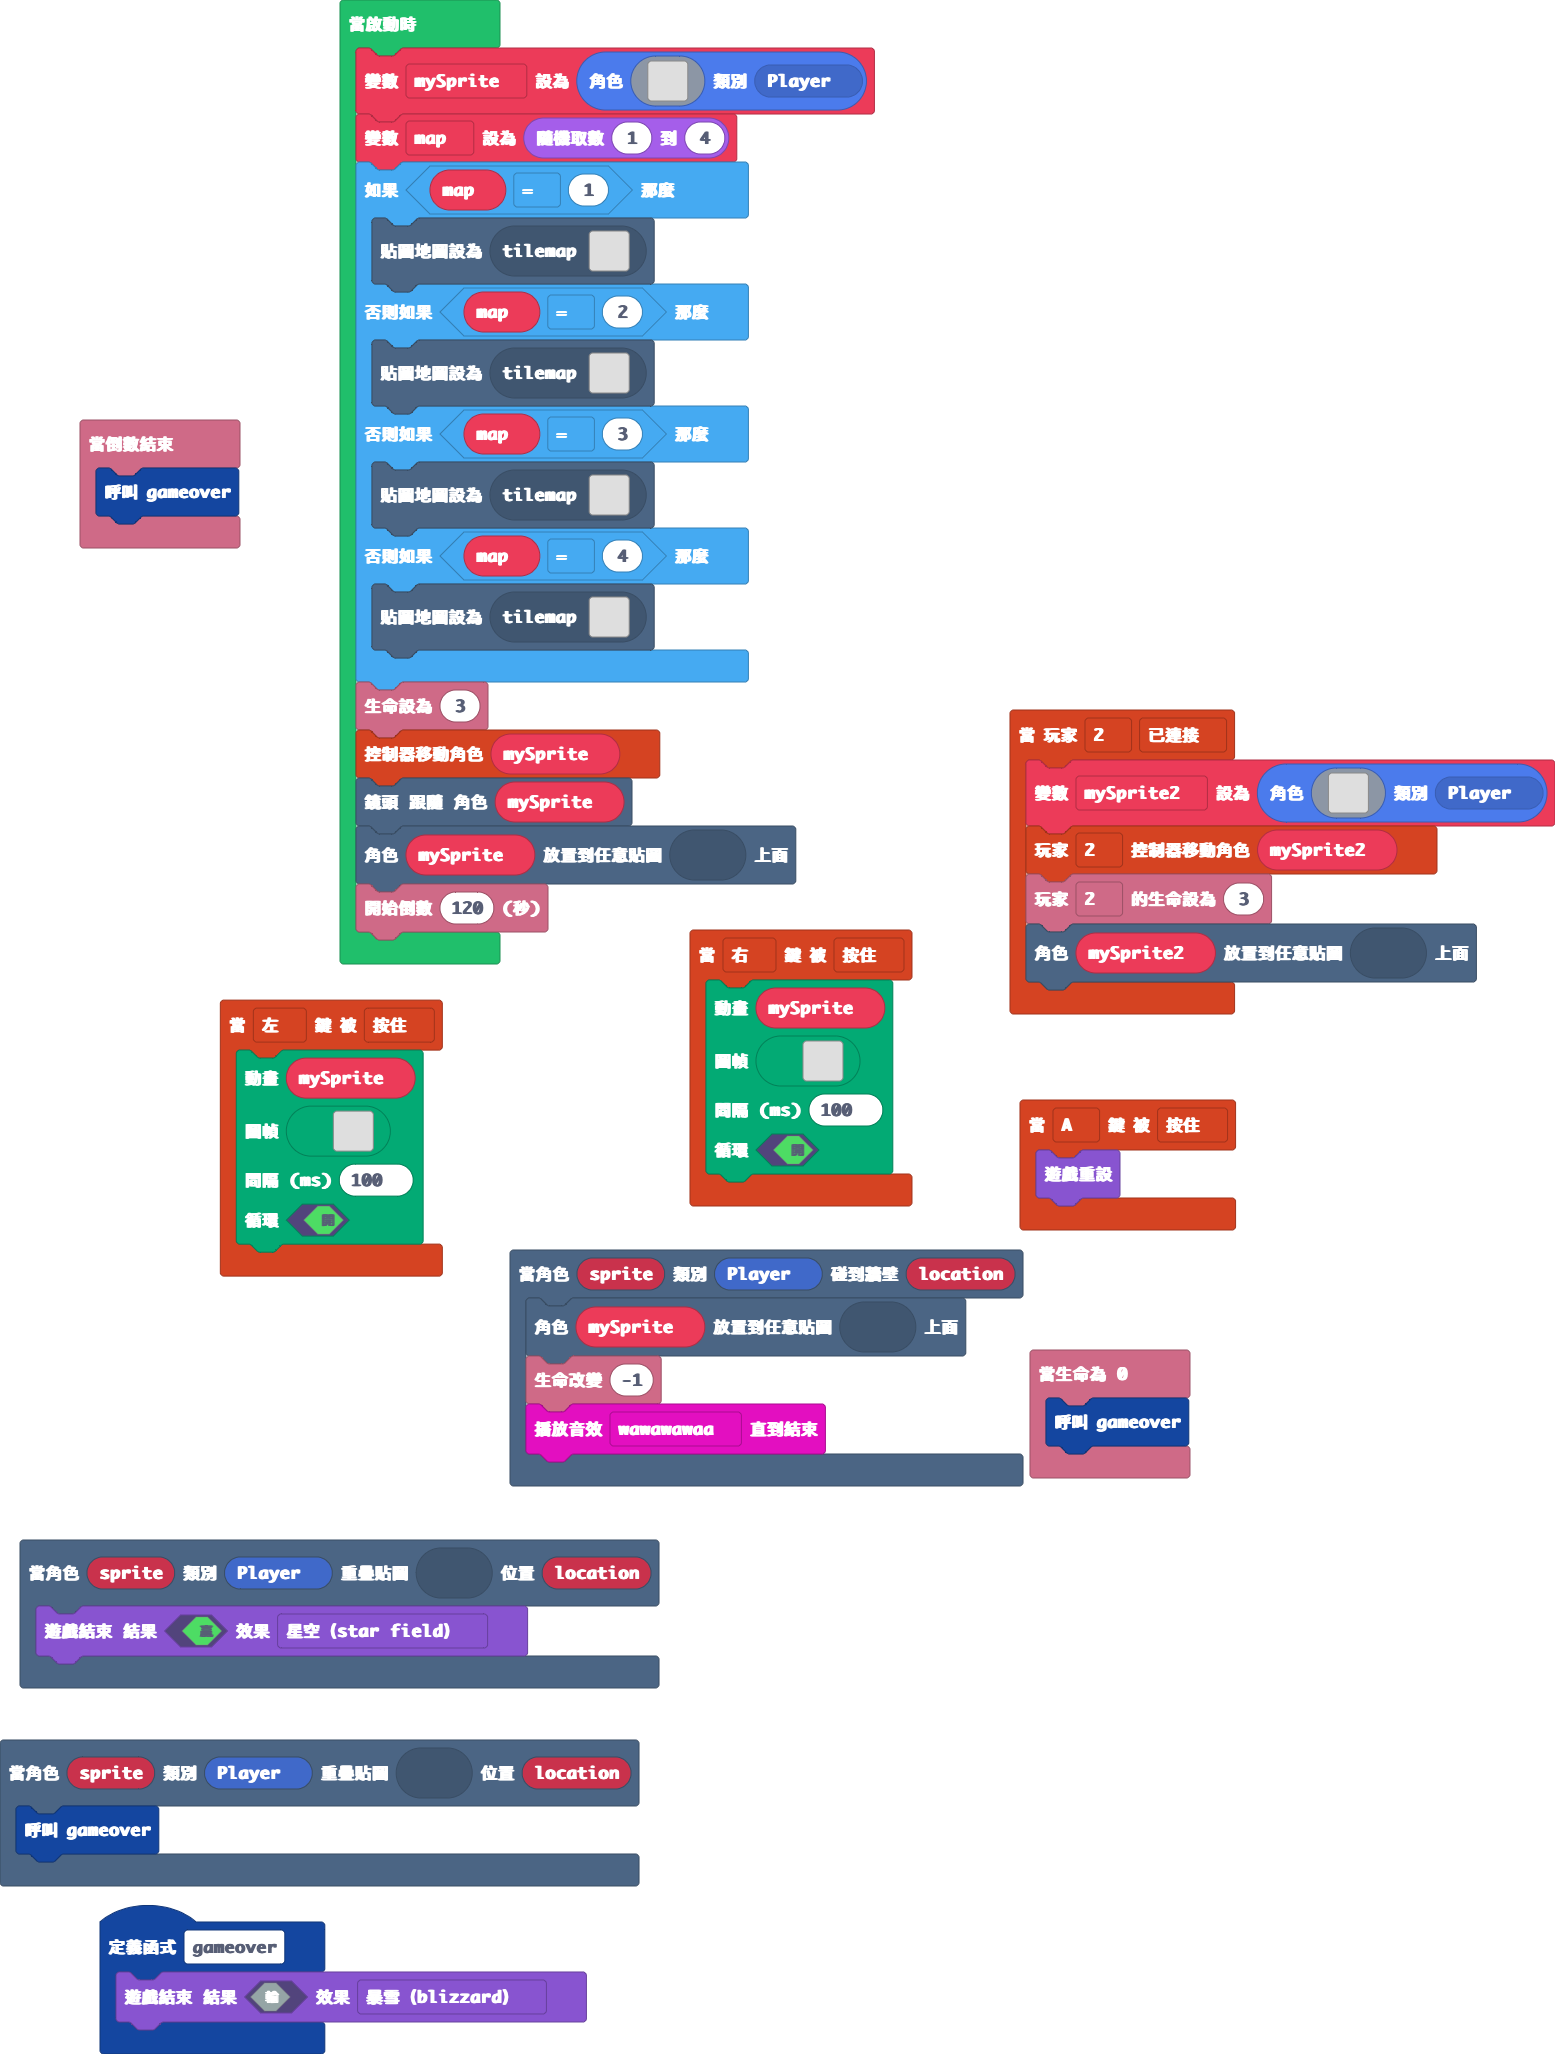
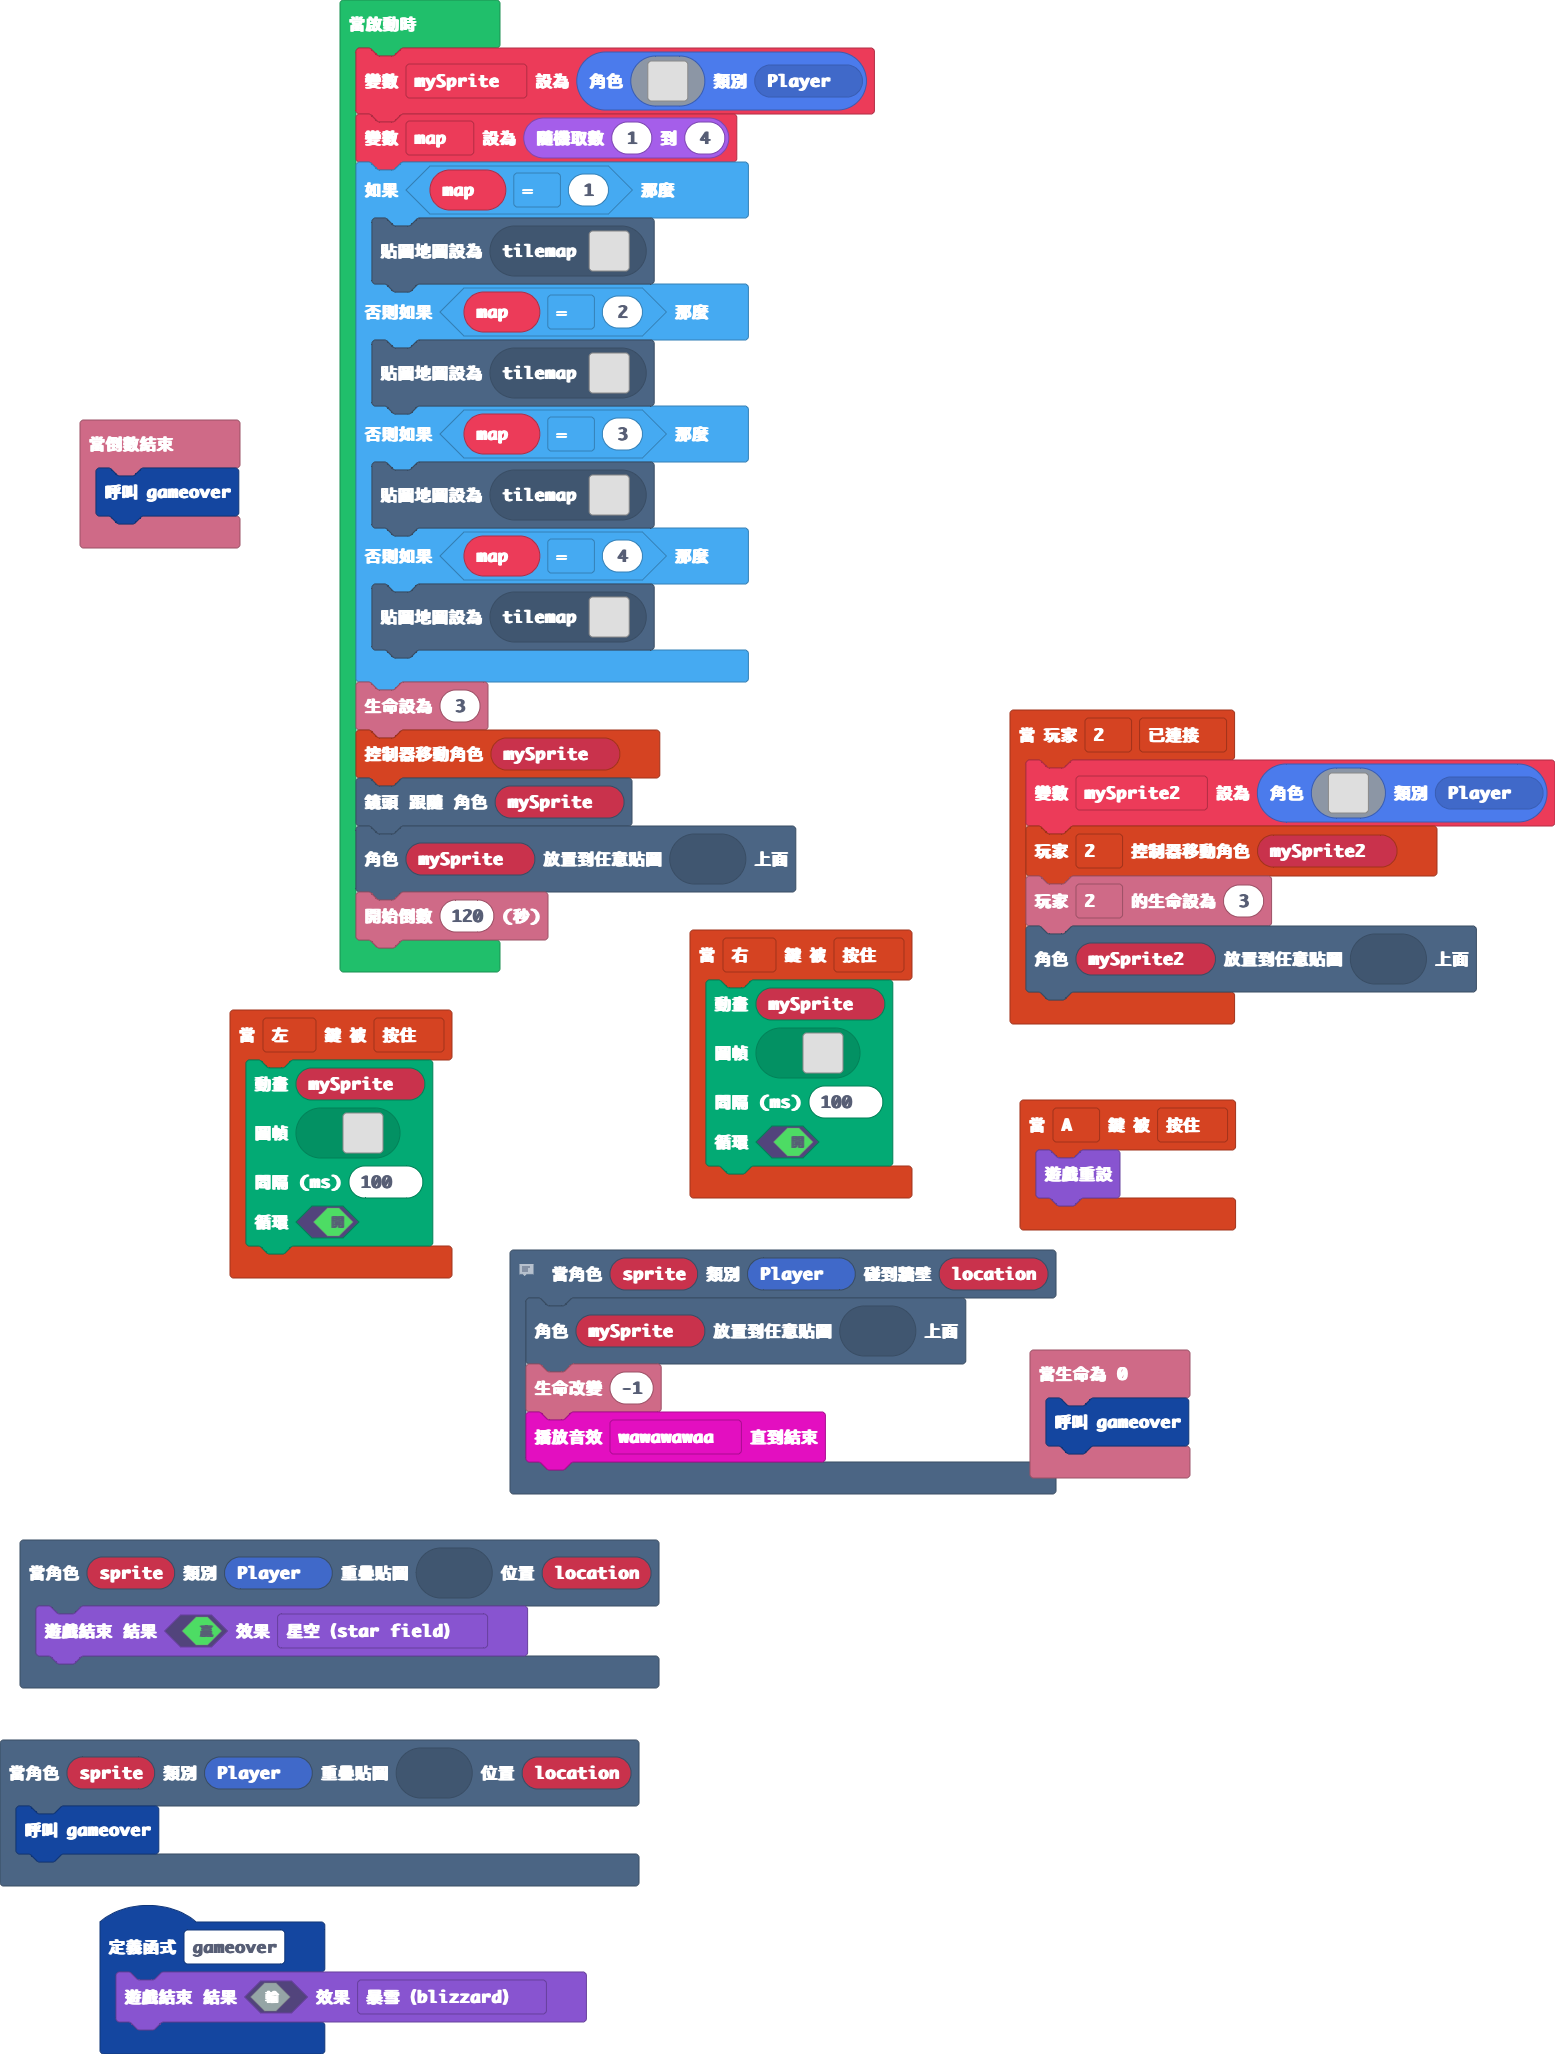
更新 pxt.json, main.blocks, main.ts, tilemap.g.jres, tilemap.g.ts

Changed region(s): [[0.3395, 0.4674, 0.6791, 0.7478], [0.1235, 0.3427, 0.5248, 0.6232], [0.6482, 0.4051, 0.9569, 0.4985]]

diff --git a/tilemap.g.ts b/tilemap.g.ts
@@ -360,12 +360,12 @@ namespace myTiles {
 22...222222222222222222222222222222222222222222222222222222....22
 22...222222222222222222222222222222222222222222222222222222....22
 22...222222222222222222222222222222222222222222222222222222....22
-22...222222222222222222222222222222222222222222222222222222....22
-22...222222222222222222222222222222222222222222222222222222....22
-22...22222222222222222222222222222222222222222222222222222.....22
-22...222222222222222222222222222222222222222222222222222222....22
-22...2222222222222222222222222222222222222222222222222222222...22
-22...222222222222222222222222222222222222222222222222222222....22
+22...222222..22..222222222222..22...22222222222222222222222....22
+22...222222.2..2.22222222...2.222.2222222222222222222222222....22
+22...222222.2222.222...22.222..22...2222222222222222222222.....22
+22...222222.2222.222.2.22...2.22222.22222222222222222222222....22
+22...222222.2222.222...2222.2..22...222222222222222222222222...22
+22...22222222222222222222...2222222222222222222222222222222....22
 22...222222222222222222222222222222222222222222222222222222....22
 22...222222222222222222222222222222222222222222222222222222....22
 22...222222222222222222222222222222222222222222222222222222....22

diff --git a/main.ts b/main.ts
@@ -1,3 +1,4 @@
+// by Mo Chit 巫喆
 scene.onHitWall(SpriteKind.Player, function (sprite, location) {
     tiles.placeOnRandomTile(mySprite, assets.tile`我的貼圖`)
     info.changeLifeBy(-1)
